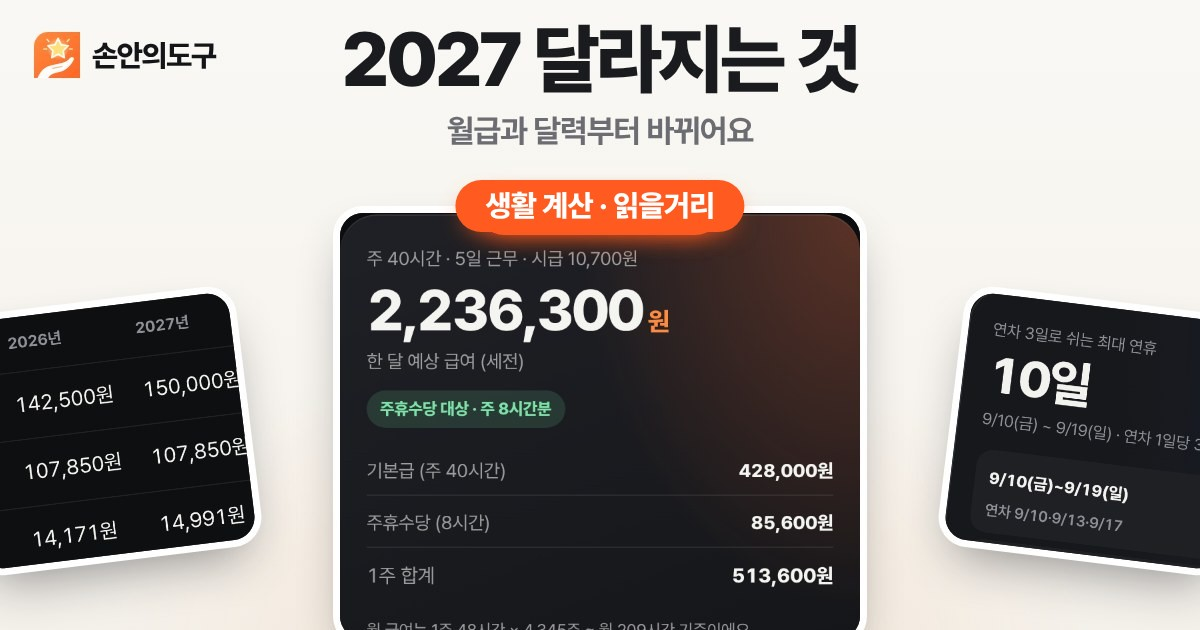
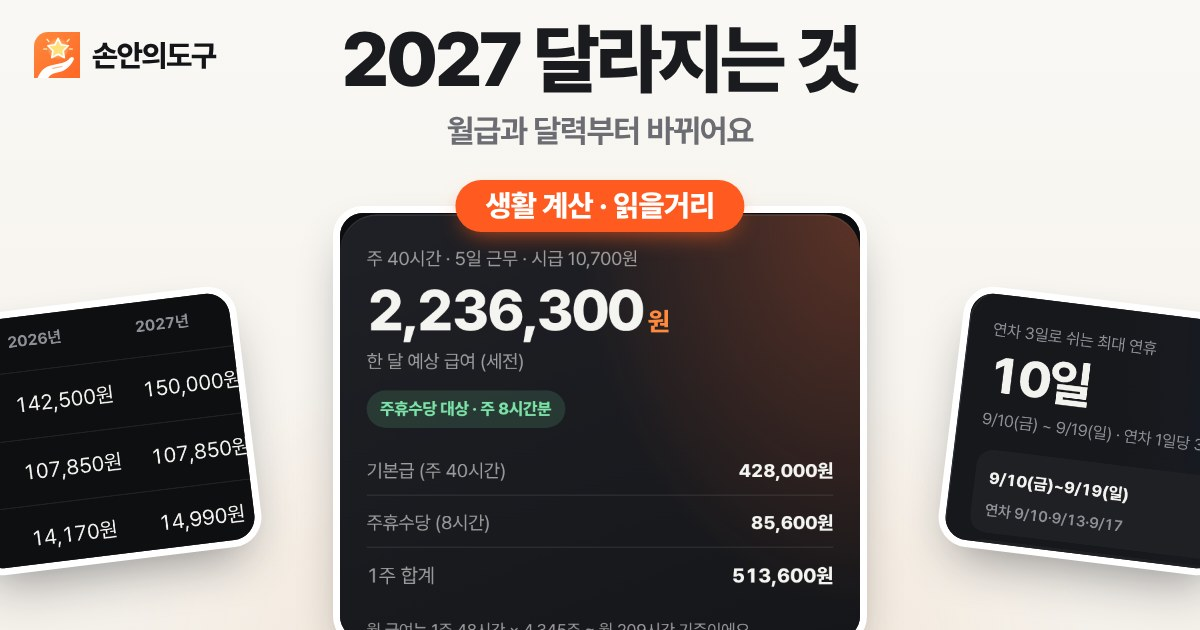
검산에서 찾은 글 숫자 오류 수정 (#19)
도구 12개를 독립 계산·글 예시와 대조한 결과 도구는 모두 맞았고,
오늘 새로 넣은 글 숫자 세 곳이 실제 계산 방식과 달랐음.

- 주휴수당 글 월 환산표: 월 근로시간을 시간 단위로 반올림하는 사이트 기준
  (계산기·최저임금표 글과 동일)으로 629,520/804,960/1,073,280원, 차이 175,440원
- 연봉 글 국민연금 상한 부담: 10원 미만 절사로 313,020원
- 2027 글 장기요양보험료: 10원 미만 절사로 14,170/14,990원, 합계 291,520/299,840원
- 2027 글 대표 이미지의 표도 다시 캡처(?v=20261117-2)
- OG_GUIDE에 같은 날 재수정 버전 규칙, 이미지 속 숫자 갱신 규칙 추가

Claude-Session: https://claude.ai/code/session_014M4UVE4QdxrQAqy8tYAeAT

diff --git a/blog/weekly-holiday-pay/index.html b/blog/weekly-holiday-pay/index.html
@@ -27,7 +27,7 @@
 <link rel="canonical" href="https://sonandogu.com/blog/weekly-holiday-pay/">
 <link rel="preconnect" href="https://cdn.jsdelivr.net" crossorigin>
 <link rel="stylesheet" href="https://cdn.jsdelivr.net/gh/orioncactus/pretendard@v1.3.9/dist/web/variable/pretendardvariable-dynamic-subset.min.css">
-<script type="application/ld+json">{"@context": "https://schema.org", "@type": "Article", "headline": "주 14시간 알바, 1시간 차이로 사라지는 돈", "datePublished": "2026-11-02", "author": {"@type": "Organization", "name": "손안의도구"}, "publisher": {"@type": "Organization", "name": "손안의도구"}, "mainEntityOfPage": "https://sonandogu.com/blog/weekly-holiday-pay/", "image": "https://sonandogu.com/assets/og-wage-post.jpg?v=20261117", "dateModified": "2026-11-16"}</script>
+<script type="application/ld+json">{"@context": "https://schema.org", "@type": "Article", "headline": "주 14시간 알바, 1시간 차이로 사라지는 돈", "datePublished": "2026-11-02", "author": {"@type": "Organization", "name": "손안의도구"}, "publisher": {"@type": "Organization", "name": "손안의도구"}, "mainEntityOfPage": "https://sonandogu.com/blog/weekly-holiday-pay/", "image": "https://sonandogu.com/assets/og-wage-post.jpg?v=20261117", "dateModified": "2026-11-17"}</script>
 <style>:root{
   --bg:#F4F4F1; --surface:#FFFFFF; --ink:#141518; --muted:#6B6D73; --faint:#A3A5AA;
   --line:rgba(20,21,24,.08); --field:#F4F4F1; --orange:#FF5A1F; --orange2:#FF8A3D;
@@ -227,17 +227,17 @@ td:last-child,th:last-child{text-align:right}
   <p>여기서 기준은 <strong>원래 일하기로 정한 시간</strong>이에요. 손님이 몰려서 어쩌다 한 시간 더 남은 날이 있어도, 그 시간까지 주휴수당 계산에 넣지는 않아요. 그래서 근로계약서에 요일별 근무시간이 어떻게 적혀 있는지가 중요해요.</p>
 
   <h2>한 달로 보면 차이가 이만큼 벌어져요</h2>
-  <p>일주일 단위로는 몇만 원 차이지만, 한 달로 모으면 꽤 커요. 한 달을 평균 4.345주(365일 ÷ 7일 ÷ 12개월)로 잡고 2026년 최저임금 10,320원으로 계산하면 이렇게 돼요.</p>
+  <p>일주일 단위로는 몇만 원 차이지만, 한 달로 모으면 꽤 커요. 한 주 근무시간과 주휴시간을 더해 평균 4.345주(365일 ÷ 7일 ÷ 12개월)를 곱한 뒤, 월 209시간처럼 시간 단위로 반올림한 월 근로시간에 2026년 최저임금 10,320원을 곱하면 이렇게 돼요.</p>
   <div class="tbl"><table>
-    <thead><tr><th>1주 근무시간</th><th>주휴수당</th><th>월 예상 급여</th></tr></thead>
+    <thead><tr><th>1주 근무시간</th><th>월 근로시간</th><th>월 예상 급여</th></tr></thead>
     <tbody>
-      <tr><td>14시간</td><td>없음</td><td>약 627,800원</td></tr>
-      <tr><td>15시간</td><td>3시간분</td><td>약 807,171원</td></tr>
-      <tr><td>20시간</td><td>4시간분</td><td>약 1,076,229원</td></tr>
-      <tr><td>40시간</td><td>8시간분</td><td>2,156,880원</td></tr>
+      <tr><td>14시간 (주휴 없음)</td><td>61시간</td><td>629,520원</td></tr>
+      <tr><td>15시간 (주휴 3시간)</td><td>78시간</td><td>804,960원</td></tr>
+      <tr><td>20시간 (주휴 4시간)</td><td>104시간</td><td>1,073,280원</td></tr>
+      <tr><td>40시간 (주휴 8시간)</td><td>209시간</td><td>2,156,880원</td></tr>
     </tbody>
   </table></div>
-  <p>주 14시간과 15시간의 한 달 차이는 약 179,371원이에요. 처음에 친구 통장에 17만 원 넘게 더 찍혔던 이유가 바로 이거예요. 주 40시간 줄의 2,156,880원은 흔히 말하는 "최저임금 월급"인데, 이미 주휴 시간을 포함한 한 달 209시간으로 계산한 금액이에요. 그래서 월급제로 일한다면 주휴수당이 월급 안에 들어 있다고 보면 돼요.</p>
+  <p>주 14시간과 15시간의 한 달 차이는 175,440원이에요. 처음에 친구 통장에 17만 원 넘게 더 찍혔던 이유가 바로 이거예요. 주 40시간 줄의 2,156,880원은 흔히 말하는 "최저임금 월급"인데, 이미 주휴 시간을 포함한 한 달 209시간으로 계산한 금액이에요. 그래서 월급제로 일한다면 주휴수당이 월급 안에 들어 있다고 보면 돼요.</p>
 
   <h2>자주 묻는 질문</h2>
   <p><strong>Q. 한 주 결근하면 그 뒤로도 주휴수당이 없나요?</strong><br>아니에요. 결근한 그 주만 주휴수당이 생기지 않고, 다음 주에 정해진 날을 다 나오면 다시 받아요.</p>

diff --git a/blog/changes-2027/index.html b/blog/changes-2027/index.html
@@ -15,7 +15,7 @@
 <meta name="theme-color" content="#F4F4F1">
 <meta property="og:type" content="article">
 <meta property="og:url" content="https://sonandogu.com/blog/changes-2027/">
-<meta property="og:image" content="https://sonandogu.com/assets/og-changes-2027-post.jpg?v=20261117">
+<meta property="og:image" content="https://sonandogu.com/assets/og-changes-2027-post.jpg?v=20261117-2">
 <meta property="og:image:width" content="1200"><meta property="og:image:height" content="630">
 <meta property="og:image:alt" content="2027년 달라지는 것, 월급과 달력부터 바뀌어요">
 <meta name="twitter:card" content="summary_large_image">
@@ -27,7 +27,7 @@
 <link rel="canonical" href="https://sonandogu.com/blog/changes-2027/">
 <link rel="preconnect" href="https://cdn.jsdelivr.net" crossorigin>
 <link rel="stylesheet" href="https://cdn.jsdelivr.net/gh/orioncactus/pretendard@v1.3.9/dist/web/variable/pretendardvariable-dynamic-subset.min.css">
-<script type="application/ld+json">{"@context": "https://schema.org", "@type": "Article", "headline": "2027년 달라지는 것, 월급과 달력부터 바뀌어요", "datePublished": "2026-11-16", "dateModified": "2026-11-16", "author": {"@type": "Organization", "name": "손안의도구"}, "publisher": {"@type": "Organization", "name": "손안의도구"}, "mainEntityOfPage": "https://sonandogu.com/blog/changes-2027/", "image": "https://sonandogu.com/assets/og-changes-2027-post.jpg?v=20261117"}</script>
+<script type="application/ld+json">{"@context": "https://schema.org", "@type": "Article", "headline": "2027년 달라지는 것, 월급과 달력부터 바뀌어요", "datePublished": "2026-11-16", "dateModified": "2026-11-17", "author": {"@type": "Organization", "name": "손안의도구"}, "publisher": {"@type": "Organization", "name": "손안의도구"}, "mainEntityOfPage": "https://sonandogu.com/blog/changes-2027/", "image": "https://sonandogu.com/assets/og-changes-2027-post.jpg?v=20261117-2"}</script>
 <style>:root{
   --bg:#F4F4F1; --surface:#FFFFFF; --ink:#141518; --muted:#6B6D73; --faint:#A3A5AA;
   --line:rgba(20,21,24,.08); --field:#F4F4F1; --orange:#FF5A1F; --orange2:#FF8A3D;
@@ -224,15 +224,15 @@ td:last-child,th:last-child{text-align:right}
   <p>장기요양보험료는 올라요. 2026년 10월 장기요양위원회에서 2027년 장기요양보험료율을 소득의 0.9994%로 정했는데, 2026년보다 5.78% 오른 거예요. 명세서에서는 보통 "건강보험료의 몇 %"로 계산하는데, 이 비율이 13.14%에서 <strong>13.90%</strong>로 바뀌어요. 보건복지부는 가입자 세대당 월평균 장기요양보험료가 19,029원에서 20,129원으로 약 1,100원 늘 것으로 봤어요.</p>
 
   <h2>월급 300만 원이면 얼마나 더 빠질까</h2>
-  <p>확정된 요율만 넣어서, 비과세 없이 월급 300만 원 전체에 요율을 곱해 근로자가 내는 몫을 비교해 봤어요.</p>
+  <p>확정된 요율만 넣어서, 비과세 없이 월급 300만 원 전체에 요율을 곱하고, 실제 보험료처럼 10원 미만은 버려서 근로자가 내는 몫을 비교해 봤어요.</p>
   <div class="tbl"><table>
     <thead><tr><th>항목</th><th>2026년</th><th>2027년</th></tr></thead>
     <tbody>
       <tr><td>국민연금</td><td>142,500원</td><td>150,000원</td></tr>
       <tr><td>건강보험</td><td>107,850원</td><td>107,850원</td></tr>
-      <tr><td>장기요양보험</td><td>14,171원</td><td>14,991원</td></tr>
+      <tr><td>장기요양보험</td><td>14,170원</td><td>14,990원</td></tr>
       <tr><td>고용보험 (현행 기준)</td><td>27,000원</td><td>27,000원</td></tr>
-      <tr><td>4대보험 합계</td><td>291,521원</td><td>299,841원</td></tr>
+      <tr><td>4대보험 합계</td><td>291,520원</td><td>299,840원</td></tr>
     </tbody>
   </table></div>
   <p>한 달에 8,320원, 1년이면 약 10만 원이 더 빠져요. 고용보험료 인상안까지 그대로 시행되면 여기에 월 3,000원이 더해져요. 손안의도구의 <a href="/salary/">연봉 실수령액 계산기</a>는 연말에 확정된 요율을 확인한 뒤 2027년 기준으로 바꿀 예정이에요.</p>

diff --git a/blog/salary-take-home/index.html b/blog/salary-take-home/index.html
@@ -27,7 +27,7 @@
 <link rel="canonical" href="https://sonandogu.com/blog/salary-take-home/">
 <link rel="preconnect" href="https://cdn.jsdelivr.net" crossorigin>
 <link rel="stylesheet" href="https://cdn.jsdelivr.net/gh/orioncactus/pretendard@v1.3.9/dist/web/variable/pretendardvariable-dynamic-subset.min.css">
-<script type="application/ld+json">{"@context": "https://schema.org", "@type": "Article", "headline": "연봉 3,600만 원, 통장에는 얼마가 찍힐까", "datePublished": "2026-11-08", "dateModified": "2026-11-16", "author": {"@type": "Organization", "name": "손안의도구"}, "publisher": {"@type": "Organization", "name": "손안의도구"}, "mainEntityOfPage": "https://sonandogu.com/blog/salary-take-home/", "image": "https://sonandogu.com/assets/og-salary-take-home-post.jpg?v=20261117"}</script>
+<script type="application/ld+json">{"@context": "https://schema.org", "@type": "Article", "headline": "연봉 3,600만 원, 통장에는 얼마가 찍힐까", "datePublished": "2026-11-08", "dateModified": "2026-11-17", "author": {"@type": "Organization", "name": "손안의도구"}, "publisher": {"@type": "Organization", "name": "손안의도구"}, "mainEntityOfPage": "https://sonandogu.com/blog/salary-take-home/", "image": "https://sonandogu.com/assets/og-salary-take-home-post.jpg?v=20261117"}</script>
 <style>:root{
   --bg:#F4F4F1; --surface:#FFFFFF; --ink:#141518; --muted:#6B6D73; --faint:#A3A5AA;
   --line:rgba(20,21,24,.08); --field:#F4F4F1; --orange:#FF5A1F; --orange2:#FF8A3D;
@@ -210,7 +210,7 @@ td:last-child,th:last-child{text-align:right}
   <p>이 구조 때문에 연봉 인상 폭과 통장에 늘어나는 돈은 달라요. 연봉이 4,000만 원에서 4,500만 원으로 오르면 월급은 416,667원 늘지만 실수령액은 323,917원 늘어서 <strong>약 78%</strong>만 내 몫이에요. 6,000만 원에서 7,000만 원으로 오르면 월급은 833,333원, 실수령액은 625,903원 늘어나 <strong>약 75%</strong>가 돼요. 연봉 협상을 할 때는 올라간 금액의 4분의 3쯤이 실제로 받는 돈이라고 생각하면 거의 맞아요.</p>
 
   <h2>월급이 아주 많으면 국민연금은 멈춰요</h2>
-  <p>4대보험은 월급에 비례해서 늘어나지만, 국민연금만은 위아래로 한도가 있어요. 2026년 7월부터 2027년 6월까지는 월 소득을 41만 원에서 659만 원 사이로 맞춰서 계산해요. 월급이 659만 원을 넘으면 그 위로는 국민연금이 더 붙지 않아서, 근로자 부담은 월 313,025원에서 멈춰요.</p>
+  <p>4대보험은 월급에 비례해서 늘어나지만, 국민연금만은 위아래로 한도가 있어요. 2026년 7월부터 2027년 6월까지는 월 소득을 41만 원에서 659만 원 사이로 맞춰서 계산해요. 월급이 659만 원을 넘으면 그 위로는 국민연금이 더 붙지 않아서, 근로자 부담은 월 313,020원에서 멈춰요.</p>
   <p>그래서 식대 비과세 20만 원을 받는 경우라면 연봉이 8천만 원 남짓을 넘어가는 순간 국민연금 부담이 고정되고, 늘어나는 공제는 대부분 소득세예요. 앞의 표에서 연봉이 높을수록 실수령률이 내려가는 건 이 소득세가 단계적으로 무거워지기 때문이에요. 이 한도는 해마다 7월에 바뀌어요.</p>
 
   <h2>월급 명세서, 이렇게 읽어요</h2>

diff --git a/.github/OG_GUIDE.md b/.github/OG_GUIDE.md
@@ -8,7 +8,8 @@
 - 밝은 배경, 왼쪽 위 손안의도구 로고, 가운데 큰 제목과 부제
 - 가운데 카드에 실제 도구 화면(다크 테마, 모바일 폭 430px)을 캡처해서 넣고, 좌우에 날개 카드 2장
 - 네이버는 가운데 정사각형(x 285~915)만 잘라 보여주므로 제목, 배지, 가운데 카드는 그 안에 둔다
-- 이미지를 바꾸면 그 페이지의 `og:image`, `twitter:image`(있으면), JSON-LD `image`의 `?v=` 값을 바꾼 날짜(YYYYMMDD)로 올린다
+- 이미지를 바꾸면 그 페이지의 `og:image`, `twitter:image`(있으면), JSON-LD `image`의 `?v=` 값을 바꾼 날짜(YYYYMMDD)로 올린다. 같은 날 다시 바꾸면 `YYYYMMDD-2`처럼 뒤에 번호를 붙인다
+- 이미지 속 도구 화면이나 표에 숫자가 찍혀 있으면, 그 숫자가 바뀔 때 이미지도 다시 만든다
 
 ## 배지 문구
 
